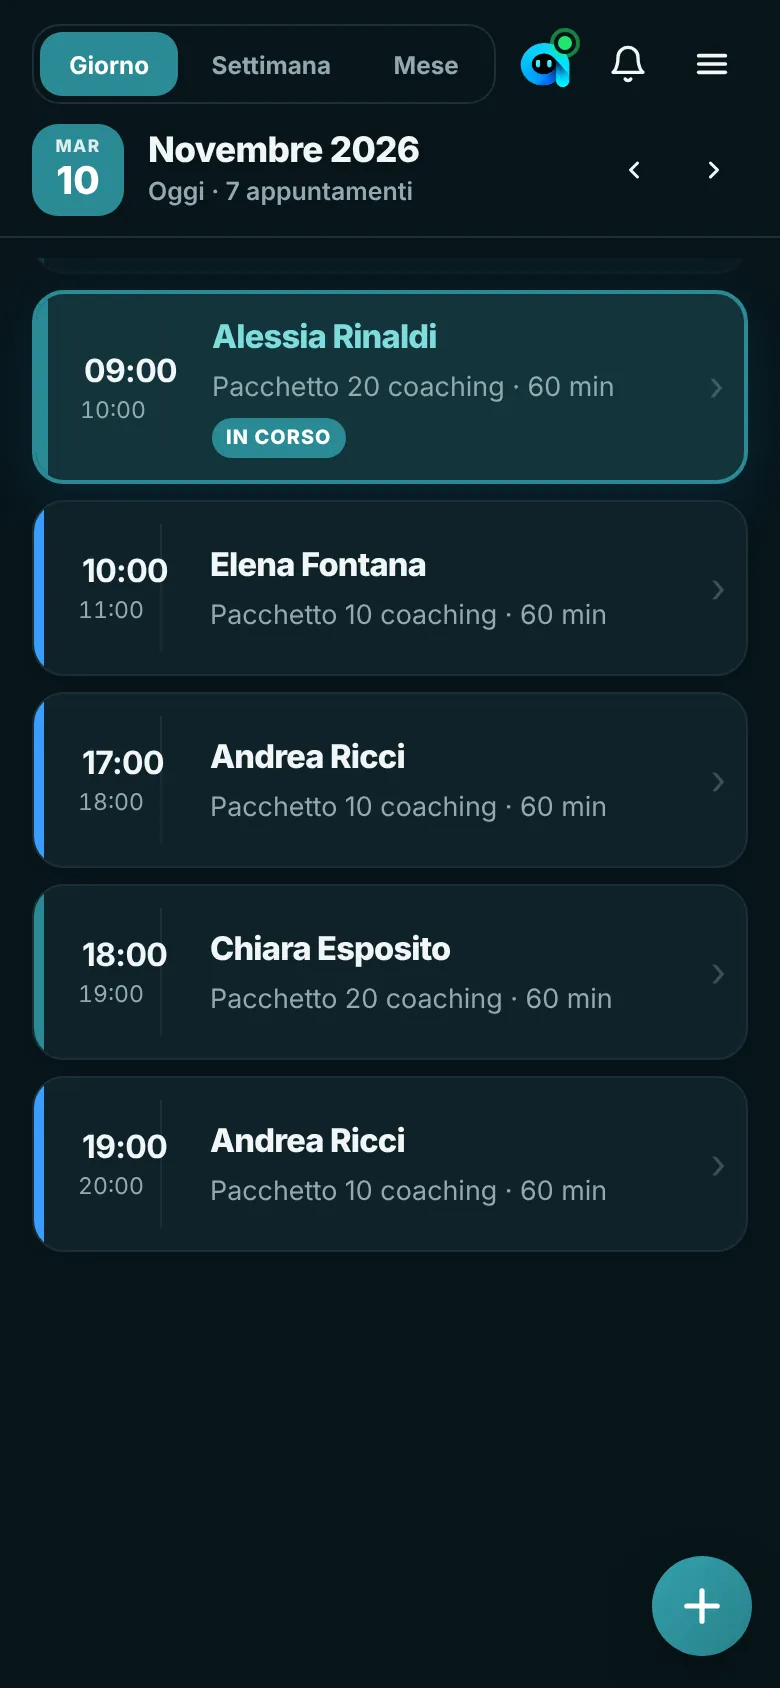
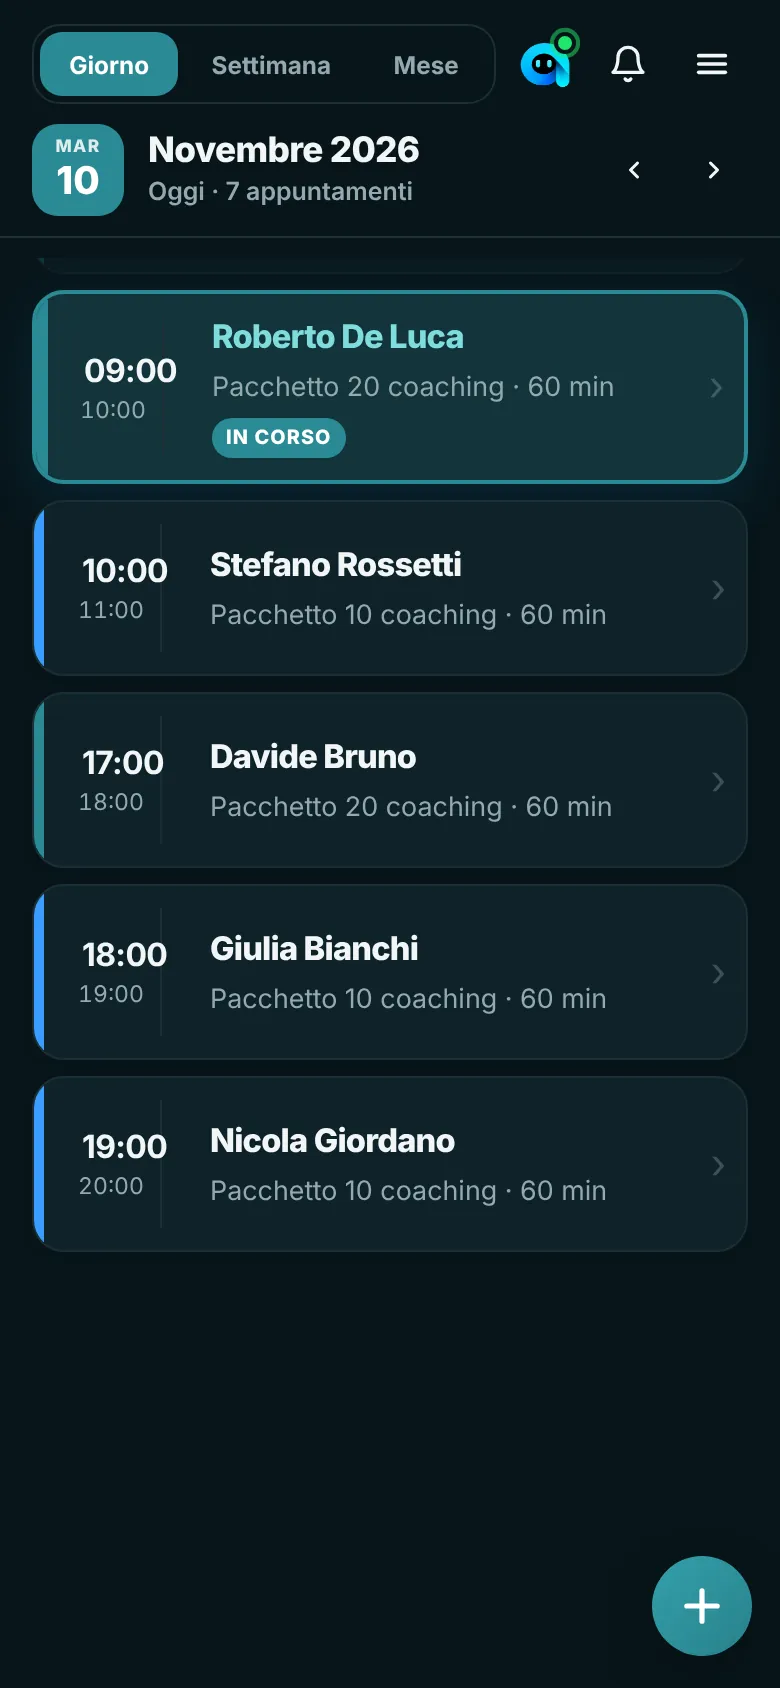
Landing PT: Iscritti per primo, statistiche con numeri piu' alti, nome Marco Ferri PT
Claude-Session: https://claude.ai/code/session_01MPSQ5iE5ceA37JhcNrT9qy

diff --git a/public/provahtml/index.html b/public/provahtml/index.html
@@ -809,7 +809,7 @@ function conv(x){return [['me','Buongiorno, vorrei prenotare'],['lia','Ciao! Cos
 function convPT(){return [['me','Buongiorno, vorrei prenotare un coaching'],['lia','Ciao! Per iniziare scrivimi nome, cognome e codice di accesso.'],['me','Giulia Bianchi, il codice è GB4K9T'],['lia','Grazie Giulia! Nel tuo pacchetto ti restano 6 coaching. Giovedì ho posto alle 17:00 e alle 18:00. Quale preferisci?'],['me','Alle 18:00, grazie!'],['lia','Prenotato! Giovedì alle 18:00. Ti restano 5 coaching. A presto!',1]]}var CAPSM=['Il paziente sceglie la visita','Sceglie il giorno','Sceglie l\'orario','Prenotazione confermata'];var CAPS=['Sceglie il servizio','Sceglie il giorno','Sceglie l\'orario','Prenotazione confermata'];
 var chat=document.getElementById('chat'),book=document.getElementById('book'),lh=document.getElementById('lh'),fr=document.getElementById('fr'),cap=document.getElementById('cap'),sec=document.getElementById('sectors');
 var run=0,manual=false,cur=0;
-var BIZ={h:'HairStudio',c:'Tennis Club Monviso',m:'Studio Dott. Ferrari',d:'Lezioni con Ludovica',p:'Marco Ferri Personal Trainer'};var SP=matchMedia('(max-width:600px)').matches?.45:.64;function wait(ms,id){return new Promise(function(r,j){setTimeout(function(){id===run?r():j('x')},ms*SP)})}
+var BIZ={h:'HairStudio',c:'Tennis Club Monviso',m:'Studio Dott. Ferrari',d:'Lezioni con Ludovica',p:'Marco Ferri PT'};var SP=matchMedia('(max-width:600px)').matches?.45:.64;function wait(ms,id){return new Promise(function(r,j){setTimeout(function(){id===run?r():j('x')},ms*SP)})}
 function row(k){var r=document.createElement('div');r.className='row '+k;return r}
 function bubble(m){var r=row(m[0]),b=document.createElement('div');b.className='b';b.textContent=m[1];r.appendChild(b);if(m[2]){r.classList.add('has-cal');var c=document.createElement('span');c.className='cal-add pv';c.innerHTML='<i class="sh"></i><svg viewBox="0 0 24 24" width="18" height="18" fill="none" stroke="currentColor" stroke-width="2" stroke-linecap="round" stroke-linejoin="round" aria-hidden="true"><rect x="3.5" y="5" width="17" height="15.5" rx="3"/><path d="M3.5 10h17M8 3v4M16 3v4M12 13.5v4M10 15.5h4"/></svg><span>Aggiungi a Google Calendar</span>';r.appendChild(c)}return r}
 function meBubble(m){var r=row('me'),b=document.createElement('div');b.className='b';var a=document.createElement('span'),g=document.createElement('span');a.className='ty';g.style.visibility='hidden';g.textContent=m[1];b.appendChild(a);b.appendChild(g);r.appendChild(b);r._a=a;r._g=g;r._t=m[1];return r}
@@ -862,12 +862,12 @@ var K=[{k:'h',l:'Servizi alla persona',v:norm('h')},
 {k:'c',l:'Centri sportivi',v:[{n:'Campi',d:'La giornata dei campi su telefono, la griglia della settimana su iPad e computer: chi ha prenotato, a che ora e su quale campo.'},{n:'Funzionalità',d:'Tutto a un tocco dal calendario: clienti, registro delle prenotazioni, statistiche, disponibilità e impostazioni.'},{n:'Clienti',d:'L\'elenco dei giocatori con campo preferito, prossima prenotazione e numero di visite.'},{n:'Statistiche',d:'Incasso, prenotazioni, occupazione dei campi e quanti giocatori, soci e non soci.'}]},
 {k:'m',l:'Studi medici',v:norm('m')},
 {k:'d',l:'Servizi a domicilio/online',v:norm('d')},
-{k:'p',l:'Personal trainer',v:[{n:'Calendario',d:'Il giorno su telefono, la settimana su iPad e computer: chi ti allena, a che ora e con quale pacchetto.'},{n:'Funzionalità',d:''},{n:'Mese',d:''},{n:'Statistiche',d:''},{n:'Iscritti',d:''}]}];
+{k:'p',l:'Personal trainer',v:[{n:'Iscritti',d:''},{n:'Calendario',d:''},{n:'Funzionalità',d:''},{n:'Mese',d:''},{n:'Statistiche',d:''}]}];
 var G={'Iscritti':'E qui ci sono i tuoi *iscritti*, con i coaching che restano a ciascuno.','Calendario':'Ecco il tuo *calendario*: gli appuntamenti sono tutti qui, sempre in ordine.','Campi':'Ecco i tuoi *campi*: le prenotazioni sono tutte qui, sempre in ordine.','Funzionalità':'Da qui arrivi *dove vuoi*: tutto quello che ti serve è a portata di tocco.','Mese':'Questa è la *vista mese*: guardi tutto il mese con una sola occhiata.','Statistiche':'Qui ci sono le *statistiche*: scopri come sta andando la tua attività.','Clienti':'E qui ci sono i tuoi *clienti*, tutti in un posto solo.'};
 K.forEach(function(x){x.v.forEach(function(v){if(G[v.n])v.d=G[v.n]})});
 (function(){var z=document.querySelector('#pfCap .sz'),bb=z.parentNode;Object.keys(G).forEach(function(n){var e=document.createElement('span');e.className='sz';e.setAttribute('aria-hidden','true');e.innerHTML=G[n].replace(/\*([^*]+)\*/g,'<b>$1</b>');bb.insertBefore(e,z)});bb.removeChild(z)})();
 var IMG={"h": [["/provahtml/img/h0-t.webp?v=3", "/provahtml/img/h0-p.webp?v=3"], ["/provahtml/img/h1-t.webp?v=3", "/provahtml/img/h1-p.webp?v=3"], ["/provahtml/img/h2-t.webp?v=3", "/provahtml/img/h2-p.webp?v=3"], ["/provahtml/img/h3-t.webp?v=3", "/provahtml/img/h3-p.webp?v=3"], ["/provahtml/img/h4-t.webp?v=3", "/provahtml/img/h4-p.webp?v=3"]], "m": [["/provahtml/img/m0-t.webp?v=3", "/provahtml/img/m0-p.webp?v=3"], ["/provahtml/img/m1-t.webp?v=3", "/provahtml/img/m1-p.webp?v=3"], ["/provahtml/img/m2-t.webp?v=3", "/provahtml/img/m2-p.webp?v=3"], ["/provahtml/img/m3-t.webp?v=3", "/provahtml/img/m3-p.webp?v=3"], ["/provahtml/img/m4-t.webp?v=3", "/provahtml/img/m4-p.webp?v=3"]], "d": [["/provahtml/img/d0-t.webp?v=3", "/provahtml/img/d0-p.webp?v=3"], ["/provahtml/img/d1-t.webp?v=3", "/provahtml/img/d1-p.webp?v=3"], ["/provahtml/img/d2-t.webp?v=3", "/provahtml/img/d2-p.webp?v=3"], ["/provahtml/img/d3-t.webp?v=3", "/provahtml/img/d3-p.webp?v=3"], ["/provahtml/img/d4-t.webp?v=3", "/provahtml/img/d4-p.webp?v=3"]], "c": [["/provahtml/img/c0-t.webp?v=3", "/provahtml/img/c0-p.webp?v=3"], ["/provahtml/img/c1-t.webp?v=3", "/provahtml/img/c1-p.webp?v=3"], ["/provahtml/img/c2-t.webp?v=3", "/provahtml/img/c2-p.webp?v=3"], ["/provahtml/img/c3-t.webp?v=3", "/provahtml/img/c3-p.webp?v=3"]]};
-IMG.p=[["/provahtml/img/pd0-t.webp?v=1", "/provahtml/img/pd0-p.webp?v=1"], ["/provahtml/img/pd1-t.webp?v=1", "/provahtml/img/pd1-p.webp?v=1"], ["/provahtml/img/pd2-t.webp?v=1", "/provahtml/img/pd2-p.webp?v=1"], ["/provahtml/img/pd3-t.webp?v=1", "/provahtml/img/pd3-p.webp?v=1"], ["/provahtml/img/pd4-t.webp?v=1", "/provahtml/img/pd4-p.webp?v=1"]];
+IMG.p=[["/provahtml/img/pd4-t.webp?v=2", "/provahtml/img/pd4-p.webp?v=2"], ["/provahtml/img/pd0-t.webp?v=2", "/provahtml/img/pd0-p.webp?v=2"], ["/provahtml/img/pd1-t.webp?v=2", "/provahtml/img/pd1-p.webp?v=2"], ["/provahtml/img/pd2-t.webp?v=2", "/provahtml/img/pd2-p.webp?v=2"], ["/provahtml/img/pd3-t.webp?v=2", "/provahtml/img/pd3-p.webp?v=2"]];
 var TI={p:'<path d="M6.5 6.5v11M17.5 6.5v11M3.5 9v6M20.5 9v6M6.5 12h11"/>',h:'<circle cx="6" cy="6" r="3"/><circle cx="6" cy="18" r="3"/><path d="M20 4L8.1 15.9M14.5 14.5L20 20M8.1 8.1L12 12"/>',c:'<ellipse cx="14.5" cy="9.5" rx="5.5" ry="7" transform="rotate(40 14.5 9.5)"/><path d="M10.6 13.4L4 20"/><circle cx="19" cy="19" r="1.6"/>',m:'<path d="M9 3h6v6h6v6h-6v6H9v-6H3V9h6z"/>',d:'<path d="M3 11l9-8 9 8v9a1 1 0 0 1-1 1h-4.5v-6h-7v6H4a1 1 0 0 1-1-1z"/>'};var tabs=document.getElementById('pfTabs'),set=document.getElementById('pfSet'),nav=document.getElementById('pfNav'),cap=document.getElementById('pfCap');if(!tabs)return;
 var cs=-1,cv=-1,busy=null,auto=null,manual=false,DUR=7000;
 K.forEach(function(x,i){var b=document.createElement('button');b.type='button';b.innerHTML='<svg class="ti" viewBox="0 0 24 24" fill="none" stroke="currentColor" stroke-width="1.9" stroke-linecap="round" stroke-linejoin="round" aria-hidden="true">'+TI[x.k]+'</svg><span class="tf">'+x.l+'</span>';b.setAttribute('aria-label',x.l);b.setAttribute('role','tab');b.setAttribute('aria-pressed','false');b.onclick=function(){manual=false;goS(i)};tabs.appendChild(b)});
